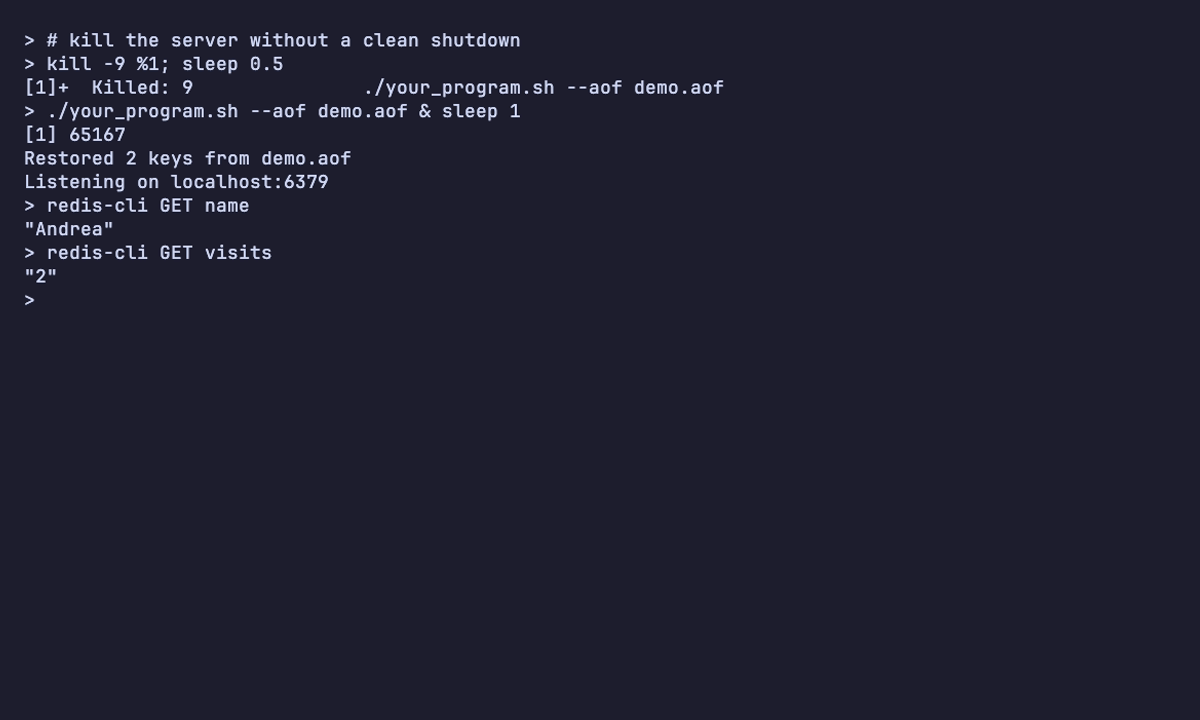
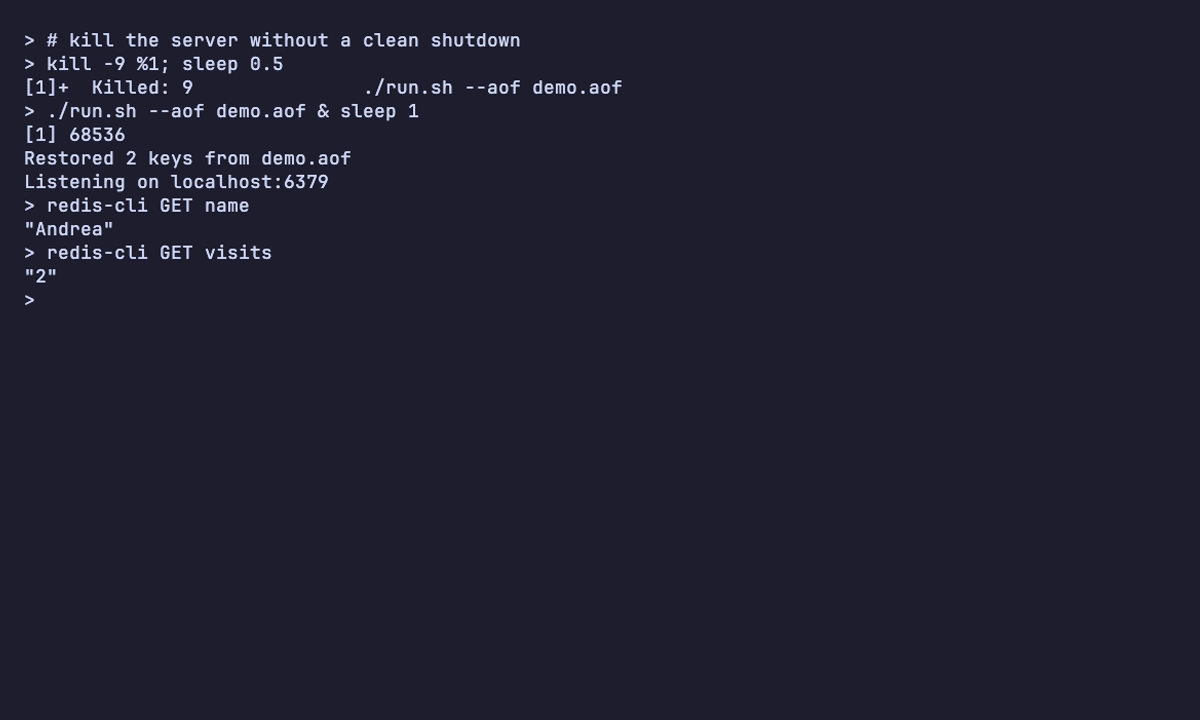
chore: rename your_program.sh to run.sh

diff --git a/README.md b/README.md
@@ -13,7 +13,7 @@ so it works with `redis-cli`.
 Requirements: Python 3.14+ and [uv](https://docs.astral.sh/uv/).
 
 ```sh
-./your_program.sh
+./run.sh
 ```
 
 The server listens on `localhost:6379`. From another terminal:
@@ -35,7 +35,7 @@ redis-cli INCR visits
 ## Persistence
 
 ```sh
-./your_program.sh --aof appendonly.aof
+./run.sh --aof appendonly.aof
 ```
 
 Writes are appended to the file and replayed on startup. TTLs are stored as
